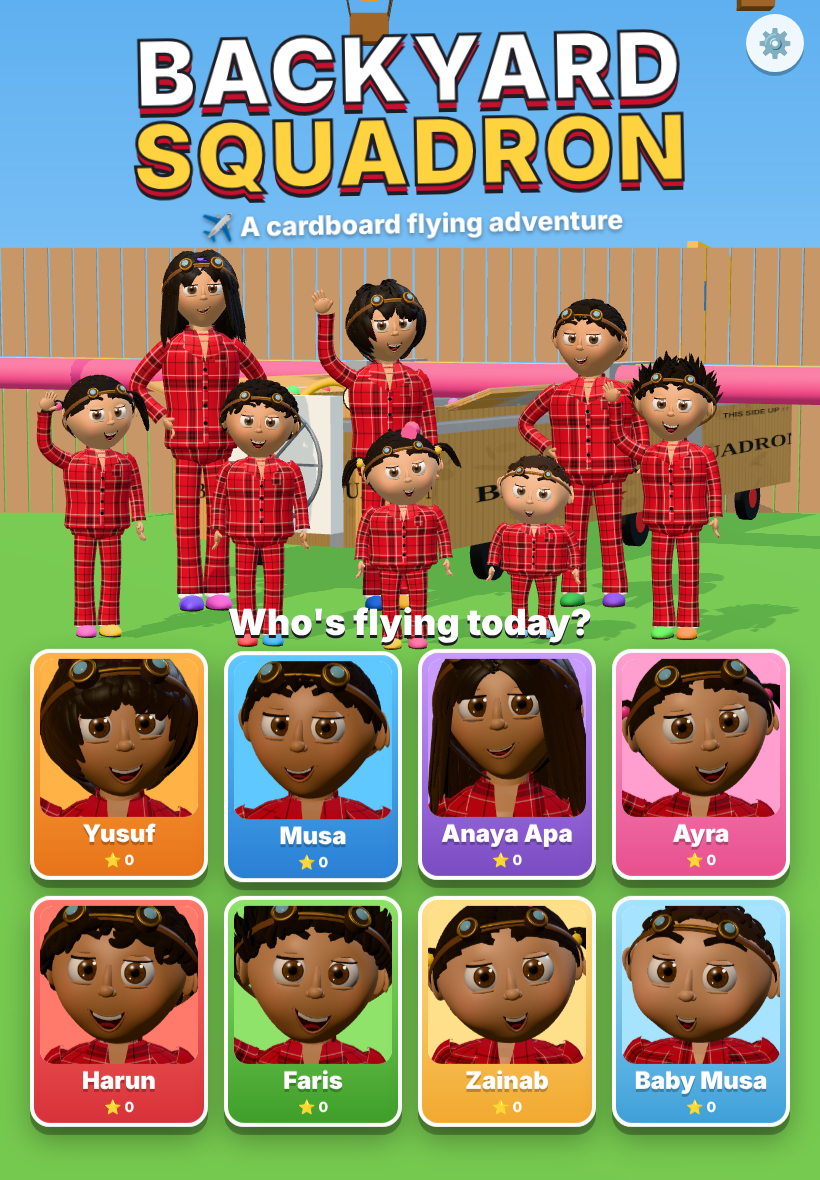
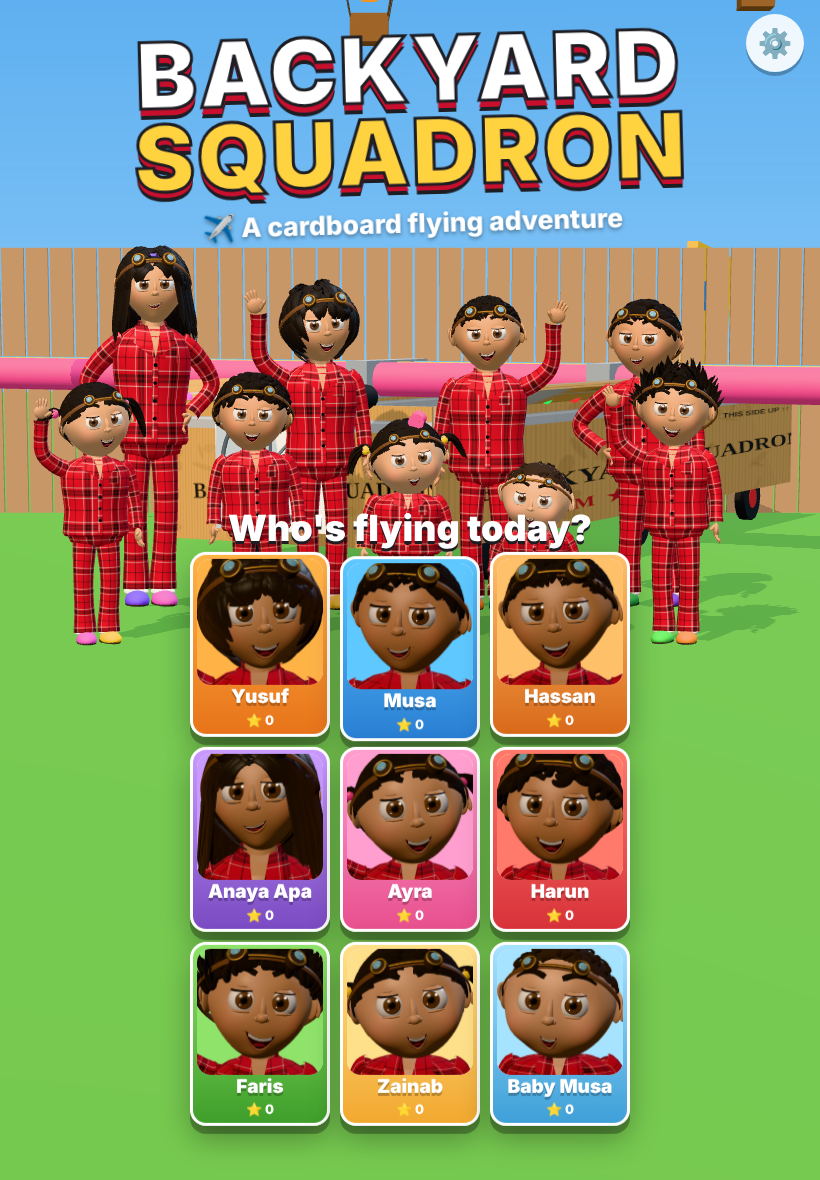
Add Hassan to the Greensboro house (playable)
- New playable kid Hassan: short buzz cut (new hair style), orange card,
  waving in the back row of the title squad.
- Plane and Faris's truck now seat nine (two back seats).
- Dialogue: Hassan joins the big kids and Greensboro family lines, plus his
  own conversations (one-on-one basketball with Yusuf, counting cows with
  Musa, asking Anaya Apa to run the snacks, a box joke, radioing Ruman).
- Story text, ending credits and README list him in the Greensboro house.
- Title screen: 3x3 grid of smaller pilot cards so the squad stays visible.

Claude-Session: https://claude.ai/code/session_019KNQmQmJPvoMSCmqbEjZ8d

diff --git a/src/dialogue.js b/src/dialogue.js
@@ -1,7 +1,7 @@
 // Who's who, and everything the squad says to each other.
 //
 // The Plano house:      Anaya Apa (13), Yusuf (10), Faris (5), Zainab (2)
-// The Greensboro house: Musa (10), Ayra (5), Harun (5) and Ruman (13, not playable: he talks on the walkie-talkie)
+// The Greensboro house: Musa (10), Hassan (10), Ayra (5), Harun (5) and Ruman (13, not playable: he talks on the walkie-talkie)
 // Also flying: Baby Musa (1)
 //
 // A script is a list of conversations; one is picked at random (without repeating recent ones).
@@ -11,14 +11,14 @@
 //   text:     may contain {pilot}; or an object keyed by speaker id, with a `default`.
 
 export const NAMES = {
-  yusuf: 'Yusuf', musa: 'Musa', anaya: 'Anaya Apa', ayra: 'Ayra', harun: 'Harun', faris: 'Faris', zainab: 'Zainab', babymusa: 'Baby Musa', ruman: 'Ruman',
+  yusuf: 'Yusuf', musa: 'Musa', anaya: 'Anaya Apa', ayra: 'Ayra', harun: 'Harun', faris: 'Faris', zainab: 'Zainab', babymusa: 'Baby Musa', hassan: 'Hassan', ruman: 'Ruman',
 };
-export const AGES = { yusuf: 10, musa: 10, anaya: 13, ayra: 5, harun: 5, faris: 5, zainab: 2, babymusa: 1, ruman: 13 };
-export const HOUSE = { anaya: 'plano', yusuf: 'plano', faris: 'plano', zainab: 'plano', musa: 'gso', ayra: 'gso', harun: 'gso', ruman: 'gso' };
+export const AGES = { yusuf: 10, musa: 10, anaya: 13, ayra: 5, harun: 5, faris: 5, zainab: 2, babymusa: 1, hassan: 10, ruman: 13 };
+export const HOUSE = { anaya: 'plano', yusuf: 'plano', faris: 'plano', zainab: 'plano', musa: 'gso', hassan: 'gso', ayra: 'gso', harun: 'gso', ruman: 'gso' };
 const GROUPS = {
-  little: ['zainab', 'babymusa'], five: ['ayra', 'harun', 'faris'], big: ['yusuf', 'musa', 'anaya'],
-  plano: ['anaya', 'yusuf', 'faris', 'zainab'], gso: ['musa', 'ayra', 'harun'],
-  any: ['yusuf', 'musa', 'anaya', 'ayra', 'harun', 'faris', 'zainab', 'babymusa'],
+  little: ['zainab', 'babymusa'], five: ['ayra', 'harun', 'faris'], big: ['yusuf', 'musa', 'hassan', 'anaya'],
+  plano: ['anaya', 'yusuf', 'faris', 'zainab'], gso: ['musa', 'hassan', 'ayra', 'harun'],
+  any: ['yusuf', 'musa', 'hassan', 'anaya', 'ayra', 'harun', 'faris', 'zainab', 'babymusa'],
 };
 
 const shuffle = (a) => a.map(v => [Math.random(), v]).sort((x, y) => x[0] - y[0]).map(v => v[1]);
@@ -52,10 +52,10 @@ export const SCRIPTS = {
   // ======================================================== Test Flight (Plano)
   'intro.intro': [
     [["anaya|yusuf", "Okay, everybody listen! Seatbelts on. Nobody touches ANYTHING."], ["five", "Can I touch the window?"], ["anaya|musa", "There IS no window. It's a box."],
-      ["yusuf|musa", "Captain {pilot}, steer with the stick and fly through the glowing rings!"], ["little", Z("Wheee!", "Ba!")]],
+      ["yusuf|musa|hassan", "Captain {pilot}, steer with the stick and fly through the glowing rings!"], ["little", Z("Wheee!", "Ba!")]],
     [["yusuf|musa", "Squad, welcome aboard! Captain {pilot} is flying today!"], ["anaya", "I'm the oldest, so I'm in charge back here."], ["faris|harun", "Nuh-uh!"],
       ["anaya|yusuf", "Uh-huh. Rings first, {pilot}. Fly through all of them."], ["little", Z("Go! Go!", "Ba!")]],
-    [["ruman", "Ruman here, at the Greensboro house. Squadron, do you copy?"], ["musa|ayra|harun", "We copy, Ruman! We're doing a test flight in Plano first!"],
+    [["ruman", "Ruman here, at the Greensboro house. Squadron, do you copy?"], ["musa|hassan|ayra|harun", "We copy, Ruman! We're doing a test flight in Plano first!"],
       ["ruman", "Copy that. Don't crash before you get here."], ["anaya|yusuf", "Nobody is crashing. I'm supervising."]],
     [["faris|ayra|harun", "Is this a real airplane?"], ["yusuf|musa", "It's a REAL cardboard airplane."], ["anaya|musa", "Which is not the same thing. Seatbelts."], ["little", Z("Seat-belt!", "Ba-ba!")]],
   ],
@@ -84,17 +84,17 @@ export const SCRIPTS = {
   'intro.introTruck': [
     [["anaya|yusuf", "FARIS. Where did the PLANE go?!"], ["yusuf|musa", "He turned it into a TRUCK! A flying truck!"], ["five", "It's SO SHINY!"],
       ["little", Z("Twuck! Twuck!", "Vroom!")], ["anaya|yusuf", "Fine. Everybody in the back. Hold on to the sides."]],
-    [["ruman", "Ruman here. Uh... is that a flying TRUCK?"], ["musa|ayra|harun", "Faris is driving!"], ["ruman", "Of course he is."], ["anaya|yusuf", "Everybody stay sitting down in the truck bed!"]],
+    [["ruman", "Ruman here. Uh... is that a flying TRUCK?"], ["musa|hassan|ayra|harun", "Faris is driving!"], ["ruman", "Of course he is."], ["anaya|yusuf", "Everybody stay sitting down in the truck bed!"]],
     [["yusuf|musa", "Captain Faris, your truck is ready! Fly through the rings!"], ["ayra|harun", "Why is it all pointy?"], ["anaya|yusuf", "Because Faris drew it. With a ruler."], ["zainab|babymusa", Z("Pointy!", "Ba!")]],
   ],
   'trip.introTruck': [
-    [["musa|ayra|harun", "We're flying to Greensboro in a TRUCK!"], ["anaya|yusuf", "In the BACK of a truck. With the wind in our hair."], ["five", "BEST. DAY. EVER."], ["little", Z("Vroom vroom!", "Vroom!")]],
+    [["musa|hassan|ayra|harun", "We're flying to Greensboro in a TRUCK!"], ["anaya|yusuf", "In the BACK of a truck. With the wind in our hair."], ["five", "BEST. DAY. EVER."], ["little", Z("Vroom vroom!", "Vroom!")]],
     [["ruman", "Ruman here. Faris, you're driving all the way to Greensboro?"], ["anaya|yusuf", "He says he's a very good driver."], ["ruman", "He's five."], ["anaya|musa", "I KNOW."]],
   ],
 
   // ======================================================== The Big Flight
   'trip.intro': [
-    [["musa|ayra|harun", "Next stop: OUR house in Greensboro! Everybody ready?"], ["five", "Did anybody pack snacks?"], ["anaya|yusuf", "I packed snacks. Obviously. I pack everything."],
+    [["musa|hassan|ayra|harun", "Next stop: OUR house in Greensboro! Everybody ready?"], ["five", "Did anybody pack snacks?"], ["anaya|yusuf", "I packed snacks. Obviously. I pack everything."],
       ["little", Z("Snack!", "Nom nom!")], ["yusuf|musa", "Captain {pilot}, follow the rings and snap a photo at every landmark!"]],
     [["ruman", "Ruman to Squadron. The Greensboro house is ready for you. Over."], ["anaya|yusuf", "Copy, Ruman. We're leaving Plano now."],
       ["ruman", "Did Anaya pack too many snacks again?"], ["anaya", "There's no such thing as too many snacks."], ["little", Z("Snack!", "Ba!")]],
@@ -107,7 +107,7 @@ export const SCRIPTS = {
   'trip.dallas': [
     [["yusuf|anaya", "There's Dallas! Fly around the big glowing ball on Reunion Tower!"], ["little", Z("Big ball!", "Ba!")], ["anaya|musa", "Don't you DARE bump that ball, {pilot}."]],
     [["faris|ayra", "It looks like a giant lollipop!"], ["harun|faris", "I want to lick it."], ["anaya|yusuf", "Nobody is licking Dallas."]],
-    [["ayra|harun", "Is Dallas bigger than Greensboro?"], ["musa|harun", "Greensboro has better trees."], ["yusuf|anaya|faris", "Dallas has a giant glowing ball. Just saying."]],
+    [["ayra|harun", "Is Dallas bigger than Greensboro?"], ["musa|hassan|harun", "Greensboro has better trees."], ["yusuf|anaya|faris", "Dallas has a giant glowing ball. Just saying."]],
   ],
   'trip.state:Arkansas': [
     [["ayra|harun|faris", "Are we there yet?"], ["anaya|yusuf", "We just left Texas."]],
@@ -128,7 +128,7 @@ export const SCRIPTS = {
   ],
   'trip.state:Tennessee': [
     [["anaya|musa", "Tennessee! Halfway there. Everybody's still alive. Good job, team."]],
-    [["ruman", "Ruman here. You're in Tennessee? Look for the mountains soon."], ["musa|ayra|harun", "Okay, Ruman!"]],
+    [["ruman", "Ruman here. You're in Tennessee? Look for the mountains soon."], ["musa|hassan|ayra|harun", "Okay, Ruman!"]],
   ],
   'trip.fall': [
     [["ayra|harun", "The trees turned orange and red and yellow!"], ["musa|yusuf", "It's fall! The leaves change color here."], ["zainab|babymusa", { zainab: "Leafs! Pretty!", babymusa: "Ooooh!" }]],
@@ -150,7 +150,7 @@ export const SCRIPTS = {
     [["ayra|harun", "It looks like a giant snail shell!"], ["little", Z("Snail!", "Ba!")]],
   ],
   'trip.state:North Carolina': [
-    [["musa|ayra|harun", "NORTH CAROLINA! We're almost home!"], ["little", Z("Yay!", "Yaaa!")]],
+    [["musa|hassan|ayra|harun", "NORTH CAROLINA! We're almost home!"], ["little", Z("Yay!", "Yaaa!")]],
     [["ruman", "Ruman here. Welcome to North Carolina, Squadron!"], ["ayra|harun", "RUMAN! We're in our STATE!"], ["ruman", "I know. I can practically hear you from here."]],
   ],
   'trip.viaduct': [
@@ -158,25 +158,25 @@ export const SCRIPTS = {
     [["faris", "If I lived on that road I'd ride my bike on it every day."], ["anaya|yusuf", "You can't even ride your bike down our driveway, Faris."], ["faris", "...I'm working on it."]],
   ],
   'trip.pilot': [
-    [["musa|ayra", "Pilot Mountain! You can see it from Greensboro on clear days."], ["faris|harun", "Hey, WE'RE pilots!"], ["anaya|musa", "Only {pilot} is the pilot. You're a passenger."]],
+    [["musa|hassan|ayra", "Pilot Mountain! You can see it from Greensboro on clear days."], ["faris|harun", "Hey, WE'RE pilots!"], ["anaya|musa", "Only {pilot} is the pilot. You're a passenger."]],
     [["harun|ayra", "It looks like a giant cupcake!"], ["faris|harun", "With broccoli sprinkles!"], ["little", Z("Cupcake!", "Nom!")]],
   ],
   'trip.greensboro': [
-    [["musa|ayra|harun", "GREENSBORO! Welcome to our town, everybody!"], ["anaya|yusuf", "Look at that sunset. Okay, I'll admit it. This is pretty cool."], ["babymusa|zainab", { babymusa: "Ba?", zainab: "Home?" }]],
+    [["musa|hassan|ayra|harun", "GREENSBORO! Welcome to our town, everybody!"], ["anaya|yusuf", "Look at that sunset. Okay, I'll admit it. This is pretty cool."], ["babymusa|zainab", { babymusa: "Ba?", zainab: "Home?" }]],
     [["ruman", "Ruman here. I can SEE you! You're tiny!"], ["ayra|harun", "RUMAN! We see the town!"], ["ruman", "Get ready, I'm going outside to wave."]],
-    [["yusuf|faris", "So THIS is Greensboro!"], ["musa|ayra", "Wait till you see our street. It's the best one."], ["anaya|yusuf", "We'll be the judge of that."]],
+    [["yusuf|faris", "So THIS is Greensboro!"], ["musa|hassan|ayra", "Wait till you see our street. It's the best one."], ["anaya|yusuf", "We'll be the judge of that."]],
   ],
   'trip.guilford': [
-    [["musa|ayra", "That's the Guilford Courthouse battlefield. It's really old!"], ["harun|ayra", "Older than Anaya Apa?"], ["anaya", "HEY."]],
-    [["musa|harun", "We go there on field trips. There are statues and cannons!"], ["faris|yusuf", "CANNONS?!"], ["anaya|musa", "Old ones. For looking. Not for using."]],
+    [["musa|hassan|ayra", "That's the Guilford Courthouse battlefield. It's really old!"], ["harun|ayra", "Older than Anaya Apa?"], ["anaya", "HEY."]],
+    [["musa|hassan|harun", "We go there on field trips. There are statues and cannons!"], ["faris|yusuf", "CANNONS?!"], ["anaya|musa", "Old ones. For looking. Not for using."]],
   ],
   'trip.science': [
-    [["musa|ayra", "The Science Center! It has an aquarium AND a zoo!"], ["ayra|faris", "Can we see the penguins? Pleeeease?"], ["little", Z("Fishies!", "Fiss!")]],
+    [["musa|hassan|ayra", "The Science Center! It has an aquarium AND a zoo!"], ["ayra|faris", "Can we see the penguins? Pleeeease?"], ["little", Z("Fishies!", "Fiss!")]],
     [["harun|ayra", "Ruman took us there and a sea turtle looked right at me!"], ["faris|yusuf", "No way!"], ["harun|ayra", "Way!"]],
   ],
   'trip.coliseum': [
     [["yusuf|musa", "The Coliseum is HUGE!"], ["faris|harun", "I bet I could throw a ball over it."], ["anaya|yusuf", "You can't throw a ball over the couch."]],
-    [["musa|harun", "I saw a basketball game there!"], ["yusuf|faris", "Who won?"], ["musa|ayra", "I don't remember. I just remember the nachos."]],
+    [["musa|hassan|harun", "I saw a basketball game there!"], ["yusuf|faris", "Who won?"], ["musa|hassan|ayra", "I don't remember. I just remember the nachos."]],
   ],
   'trip.downtown': [
     [["musa|yusuf", "Downtown! That's Elm Street and the Carolina Theatre sign!"], ["ayra|harun", "Can we go to the movies?"], ["anaya|musa", "In our PAJAMAS? ...Actually, yes. Later."]],
@@ -195,7 +195,7 @@ export const SCRIPTS = {
     [["ruman", "Ruman here. You're passing A&T? You're almost here!"], ["ayra|harun", "Ruman, get outside and wave!"], ["ruman", "Already outside. Look for the guy waving."]],
   ],
   'trip.home': [
-    [["musa|ayra|harun", "There's OUR street! The blue house!"], ["ruman", "I see you! I'm in the front yard!"], ["anaya|yusuf", "Gentle landing, {pilot}. GENTLE."]],
+    [["musa|hassan|ayra|harun", "There's OUR street! The blue house!"], ["ruman", "I see you! I'm in the front yard!"], ["anaya|yusuf", "Gentle landing, {pilot}. GENTLE."]],
     [["ayra|harun", "I can see Ruman waving!"], ["yusuf|faris", "Hi, Ruman!"], ["little", Z("Hi! Hi!", "Hi!")], ["anaya|musa", "Wave AFTER we land."]],
   ],
   'trip.land': [
@@ -306,6 +306,14 @@ export const SCRIPTS = {
 
   // random chatter while flying
   banter: [
+    [["hassan", "Yusuf, when we land, basketball. One on one."], ["yusuf", "You're ON."], ["musa|anaya", "I'm reffing."], ["five", "Can we play too?!"]],
+    [["hassan", "Musa, I bet I can count more cows than you."], ["musa", "You're on. One... two..."], ["hassan", "Seventeen!"], ["musa", "That's not fair, you're on the cow side!"]],
+    [["hassan", "Anaya Apa, can I be in charge of the snacks?"], ["anaya", "Absolutely not."], ["hassan", "Worth a try."]],
+    [["harun|ayra", "Hassan, tell the joke about the cardboard box!"], ["hassan", "Why did the box go to the doctor? It felt a little... flat."], ["five", "HAHAHA!"], ["anaya|yusuf", "That was terrible. I love it."]],
+    [["hassan", "When we get home, I'm showing everybody my new basketball shoes."], ["faris|harun", "Are they fast?"], ["hassan", "SUPER fast. Faster than this plane."], ["yusuf|musa", "Nothing is faster than this plane."]],
+    [["hassan", "Ruman, are you there? Over."], ["ruman", "I'm here, Hassan. Over."], ["hassan", "Just checking. Over."], ["ruman", "...Okay. Over."]],
+    [["zainab|babymusa", Z("Hassan! Hassan!", "Ha-ha!")], ["hassan", "Hi, little buddy! High five!"], ["zainab|babymusa", Z("Fi!", "Ba!")]],
+    [["hassan", "I can see the Greensboro house from here!"], ["anaya|yusuf", "We're still in a different state, Hassan."], ["hassan", "...I can IMAGINE it."]],
     [["ayra|harun|faris", "Are we there yet?"], ["anaya|musa", "No."], ["ayra|harun|faris", "Are we there yet NOW?"], ["anaya|yusuf", "NO."]],
     [["harun|faris|ayra", "I need to go potty."], ["anaya|musa", "You JUST went! Hold it."], ["zainab|babymusa", { zainab: "Potty!", babymusa: "Ba!" }]],
     [["faris|harun", { faris: "Harun is touching me!", harun: "Faris is touching me!", default: "Somebody is touching me!" }], ["harun|faris|ayra", "I'm not touching you. I'm touching the AIR next to you."], ["anaya|yusuf", "Both of you, hands in your laps."]],
@@ -323,17 +331,17 @@ export const SCRIPTS = {
     [["faris", "Anaya Apa, Yusuf is making faces at me!"], ["yusuf", "I'm not! This is just my face!"], ["anaya", "Both of you, eyes forward."]],
     [["zainab", "Apa! Apa!"], ["anaya|yusuf", "What is it, Zainab?"], ["zainab", "...Hi!"], ["anaya|yusuf", "Hi, Zainab."]],
     [["yusuf|faris", "Anaya Apa, are you EVER not in charge?"], ["anaya", "No. I was born in charge."]],
-    [["faris|zainab", { faris: "Our house is the best house.", zainab: "Our house!", default: "Plano is the best!" }], ["musa|ayra|harun", "Our house has a basketball hoop!"], ["yusuf|faris", "...Okay, that IS pretty good."]],
+    [["faris|zainab", { faris: "Our house is the best house.", zainab: "Our house!", default: "Plano is the best!" }], ["musa|hassan|ayra|harun", "Our house has a basketball hoop!"], ["yusuf|faris", "...Okay, that IS pretty good."]],
     // Greensboro siblings
-    [["ayra", "Musa, are you going to show them our room?"], ["musa|harun", "Yeah! And the backyard! And the tree!"], ["harun|ayra", "And my rock collection!"], ["anaya|yusuf", "Can't wait. Truly."]],
-    [["harun", "I miss Ruman."], ["ayra|musa", "We'll see him soon!"], ["harun|ayra", "I want to tell him we flew in a BOX."]],
-    [["musa|ayra", "Harun, stop kicking my seat."], ["harun", "I'm not kicking. I'm doing airplane legs."]],
-    [["ayra|harun", "When we get home I want pancakes."], ["musa|harun", "It's going to be dinnertime."], ["ayra|faris", "Dinner pancakes!"]],
+    [["ayra", "Musa, are you going to show them our room?"], ["musa|hassan|harun", "Yeah! And the backyard! And the tree!"], ["harun|ayra", "And my rock collection!"], ["anaya|yusuf", "Can't wait. Truly."]],
+    [["harun", "I miss Ruman."], ["ayra|musa|hassan", "We'll see him soon!"], ["harun|ayra", "I want to tell him we flew in a BOX."]],
+    [["musa|hassan|ayra", "Harun, stop kicking my seat."], ["harun", "I'm not kicking. I'm doing airplane legs."]],
+    [["ayra|harun", "When we get home I want pancakes."], ["musa|hassan|harun", "It's going to be dinnertime."], ["ayra|faris", "Dinner pancakes!"]],
     // the walkie-talkie
     [["ruman", "Ruman here. How's the flight?"], ["anaya|yusuf", "Loud."], ["five", "AWESOME!"], ["ruman", "Sounds about right."]],
     [["ruman", "Ruman here. Anaya, are you bossing everyone again?"], ["anaya", "Somebody has to, Ruman."], ["ruman", "Fair enough."]],
     [["ruman", "Ruman here. Just checking: is everybody still wearing the pajamas?"], ["any", "OBVIOUSLY!"], ["little", Z("Jammies!", "Ba!")]],
-    [["ruman", "Ruman here. I made the beds for everyone. You owe me."], ["musa|ayra|harun", "Thanks, Ruman!"], ["anaya|yusuf", "We'll see if they're made correctly."]],
+    [["ruman", "Ruman here. I made the beds for everyone. You owe me."], ["musa|hassan|ayra|harun", "Thanks, Ruman!"], ["anaya|yusuf", "We'll see if they're made correctly."]],
     [["ayra|harun", "Ruman, are you there?"], ["ruman", "I'm here. I'm always here. It's a walkie-talkie."]],
     // the little ones
     [["zainab", "Birdie!"], ["babymusa|zainab", Z("Birdie!", "Bir!")], ["anaya|musa", "Yes, birds. We're flying with the birds."]],

diff --git a/src/characters.js b/src/characters.js
@@ -741,6 +741,7 @@ const HAIRLINE = {
   pigtails: [[0, 0.54], [0.5, 0.46], [0.9, 0.3], [1.25, 0.18], [1.45, 0.08], [1.75, -0.06], [2.3, -0.36], [Math.PI, -0.5]],
   spiky: [[0, 0.55], [0.5, 0.47], [0.9, 0.32], [1.25, 0.2], [1.45, 0.1], [1.75, -0.02], [2.3, -0.3], [Math.PI, -0.45]],
   curly: [[0, 0.53], [0.5, 0.45], [0.9, 0.29], [1.25, 0.17], [1.45, 0.07], [1.75, -0.06], [2.3, -0.36], [Math.PI, -0.5]],
+  buzz: [[0, 0.56], [0.5, 0.48], [0.9, 0.33], [1.25, 0.21], [1.45, 0.11], [1.75, -0.02], [2.3, -0.3], [Math.PI, -0.44]],
   baby: [[0, 0.68], [0.5, 0.62], [0.9, 0.48], [1.25, 0.36], [1.45, 0.28], [1.75, 0.18], [2.3, -0.05], [Math.PI, -0.15]],
 };
 function hairlineY(n, style) {
@@ -795,7 +796,7 @@ function buildHair(head, spec, sculpt, r, lo) {
     mesh(geo, hairMat, head);
   }
 
-  const counts = { straight: 380, neat: 500, long: 520, pigtails: 460, spiky: 320, curly: 560, baby: 90 };
+  const counts = { straight: 380, neat: 500, long: 520, pigtails: 460, spiky: 320, curly: 560, baby: 90, buzz: 700 };
   const geos = [];
   const N = Math.round((counts[style] || 400) * (lo ? 0.42 : 1));
   const crown = V(0.12, 0.75, -0.64).normalize();
@@ -857,6 +858,12 @@ function buildHair(head, spec, sculpt, r, lo) {
       flow = tangentize(V(r() - 0.5, r() - 0.5, r() - 0.5), n);
       L = lerp(0.04, 0.06, r()) * sc;
       lift0 = 0.012 + r() * 0.01; liftAmp = 0.012; width = lerp(0.013, 0.018, r()) * sc; flat = 0.7; curl = (r() < 0.5 ? -1 : 1) * 9;
+    } else if (style === 'buzz') {
+      // short, tidy buzz cut with a little lift at the front
+      flow = tangentize(V(0, 0.2, 1), n);
+      flow.applyAxisAngle(n, (r() - 0.5) * 0.6);
+      L = lerp(0.018, 0.03, r()) * sc;
+      lift0 = 0.004 + 0.008 * front; liftAmp = 0.002; width = lerp(0.012, 0.016, r()) * sc; flat = 0.45; taper = 0.6;
     } else if (style === 'baby') {
       flow = tangentize(V(r() - 0.5, 0.3, r() - 0.5), n);
       L = lerp(0.015, 0.03, r()) * sc;
@@ -942,7 +949,7 @@ function buildHair(head, spec, sculpt, r, lo) {
 
 function buildGoggles(head, spec, sculpt, lo) {
   const R = spec.R;
-  const lift = { straight: 1.2, long: 1.16, curly: 1.2, spiky: 1.24, baby: 1.06 }[spec.hair] || 1.11;
+  const lift = { straight: 1.2, long: 1.16, curly: 1.2, spiky: 1.24, baby: 1.06, buzz: 1.08 }[spec.hair] || 1.11;
   const tilt = -0.62;
   const pts = [];
   for (let i = 0; i < 64; i++) {
@@ -1034,7 +1041,13 @@ export const BABYMUSA = {
   expr: { mouthW: 0.036, mouthH: 0.024, smile: 0.2, asym: 0.0, lid: 0.25, lidTilt: 0.0, browL: 0.05, browR: 0.05 },
   headTilt: [0.08, -0.12, -0.1], pose: 'relaxed', slippers: [0x8fd3ff, 0x8fd3ff], card: ['#a6e3ff', '#3fa0d8'],
 };
-export const KIDS = [YUSUF, MUSA, ANAYA, AYRA, HARUN, FARIS, ZAINAB, BABYMUSA];
+export const HASSAN = {
+  id: 'hassan', name: 'Hassan', age: 10, seed: 117, R: 0.15, height: 1.01, girth: 1.02, skin: 0xc49069, blush: 0xde8468, hair: 'buzz',
+  face: { width: 1.01, cheeks: 0.07, jawTaper: 0.25, chin: 0.05 },
+  expr: { mouthW: 0.062, mouthH: 0.026, smile: 0.36, asym: 0.003, lid: 0.3, lidTilt: 0.03, browL: 0.07, browR: 0.05 },
+  headTilt: [0.03, -0.06, 0.05], arms: { R: 'relaxed', L: 'wave' }, slippers: [0xff7a1a, 0x2f8f5a], card: ['#ffc06a', '#d96a1a'],
+};
+export const KIDS = [YUSUF, MUSA, HASSAN, ANAYA, AYRA, HARUN, FARIS, ZAINAB, BABYMUSA];
 /** Ruman (13) lives in the Greensboro house. Not playable: he radios in and waits in the front yard. */
 export const RUMAN = {
   id: 'ruman', name: 'Ruman', age: 13, seed: 105, R: 0.142, height: 1.12, girth: 0.98, scale: 1.1, skin: 0xc28d68, blush: 0xdc8068, hair: 'straight',

diff --git a/src/main.js b/src/main.js
@@ -81,7 +81,7 @@ class App {
   // ------------------------------------------------------------ boot
   async boot() {
     this.titleBoys = {};
-    const msgs = ['Building a BIG cardboard plane…', 'Ironing 8 pairs of pajamas…', 'Finding everybody\'s slippers…', 'Packing snacks…', 'Telling Anaya Apa she\'s in charge…', 'Warming up the juice boxes…', 'Finding Baby Musa\'s binky…', 'Almost ready…'];
+    const msgs = ['Building a BIG cardboard plane…', 'Ironing 8 pairs of pajamas…', 'Finding everybody\'s slippers…', 'Packing snacks…', 'Telling Anaya Apa she\'s in charge…', 'Finding Hassan\'s other slipper…', 'Warming up the juice boxes…', 'Finding Baby Musa\'s binky…', 'Almost ready…'];
     // full-detail models are only used for the portrait snapshots; the title screen uses lighter ones
     this.portraitRig();
     for (let i = 0; i < KIDS.length; i++) {
@@ -188,7 +188,7 @@ class App {
     this.titlePlane.group.traverse(o => { if (o.isMesh) o.castShadow = true; });
     s.add(this.titlePlane.group);
     // the whole squad: big kids in the back row, little ones in front
-    const spots = { anaya: [-1.05, -0.45, 0.25], yusuf: [-0.2, -0.4, 0.15], musa: [0.75, -0.45, -0.25], ayra: [-1.4, 0.55, 0.35],
+    const spots = { anaya: [-1.3, -0.45, 0.25], yusuf: [-0.5, -0.4, 0.15], hassan: [0.25, -0.45, 0.0], musa: [1.0, -0.45, -0.25], ayra: [-1.4, 0.55, 0.35],
       harun: [-0.72, 0.6, 0.15], zainab: [-0.12, 0.7, 0.05], babymusa: [0.4, 0.72, -0.1], faris: [1.0, 0.6, -0.3] };
     for (const [id, [x, z, ry]] of Object.entries(spots)) {
       const b = this.titleBoys[id];

diff --git a/src/style.css b/src/style.css
@@ -318,7 +318,7 @@ html, body { -webkit-text-size-adjust: 100%; text-size-adjust: 100%; }
 }
 
 /* ---------- the whole squad on the title screen ---------- */
-.pick { display: grid; grid-template-columns: repeat(4, 1fr); gap: clamp(8px, 2vw, 16px); width: min(760px, 96vw); margin: 10px 0 2vh; }
+.pick { display: grid; grid-template-columns: repeat(3, 1fr); gap: clamp(8px, 1.8vw, 14px); width: min(600px, 92vw); margin: 8px 0 2vh; }
 .pilot-card { width: auto; padding: 6px 6px 8px; border-width: 4px; border-radius: 20px; background: linear-gradient(var(--c1), var(--c2)) !important; animation-delay: calc(var(--i, 0) * -0.3s); }
 .pilot-card img { border-radius: 14px; }
 .pc-name { font-size: clamp(15px, 3.4vw, 24px); line-height: 1.1; margin-top: 4px; }
@@ -338,3 +338,8 @@ html, body { -webkit-text-size-adjust: 100%; text-size-adjust: 100%; }
 #hud.touch-mode .honk { bottom: calc(240px + var(--safe-b)); }
 #hud, #hud button, .honk { touch-action: none; }
 @media (max-width: 500px) { .honk { width: 64px; height: 64px; bottom: calc(190px + var(--safe-b)); left: calc(24px + var(--safe-l)); } .honk b { font-size: 22px; } .honk span { font-size: 10px; } }
+/* nine pilots: smaller cards so the squad stays visible */
+.pick { width: min(440px, 72vw); gap: clamp(6px, 1.4vw, 10px); }
+.pilot-card { padding: 4px 4px 6px; border-width: 3px; border-radius: 16px; }
+.pc-name { font-size: clamp(13px, 2.8vw, 19px); margin-top: 2px; }
+.pc-stars { font-size: clamp(10px, 1.9vw, 13px); }

diff --git a/src/ui.js b/src/ui.js
@@ -71,7 +71,7 @@ export class UI {
       </div>
       <div class="chapters">
         <div class="chapter"><div class="ch-title">✈ <b>Plano ➜ Greensboro</b></div>
-          <div class="ch-sub">Captain ${NAMES[who]} flies, and the whole squad rides along! The Greensboro kids (Musa, Ayra and Harun) came to visit the Plano house (Anaya Apa, Yusuf, Faris and Zainab). Now everybody flies back to Greensboro together, where Ruman is waiting. Anaya Apa is in charge of the back row.</div>
+          <div class="ch-sub">Captain ${NAMES[who]} flies, and the whole squad rides along! The Greensboro kids (Musa, Hassan, Ayra and Harun) came to visit the Plano house (Anaya Apa, Yusuf, Faris and Zainab). Now everybody flies back to Greensboro together, where Ruman is waiting. Anaya Apa is in charge of the back row.</div>
           ${MISSIONS.map((m, i) => card(m, i)).join('')}
         </div>
       </div>`;
@@ -257,7 +257,7 @@ export class UI {
       <div class="credits">
         <div><b>Starring</b></div>
         <div><b>The Plano house:</b> Anaya Apa · Yusuf · Faris · Zainab</div>
-        <div><b>The Greensboro house:</b> Musa · Ayra · Harun · Ruman</div>
+        <div><b>The Greensboro house:</b> Musa · Hassan · Ayra · Harun · Ruman</div>
         <div>and Baby Musa</div>
         <div class="cr-stats">⭐ ${totalStars(p)} / ${MISSIONS.length * 3} stars · 🧦 ${socksFound(p)} / ${MISSIONS.length} socks</div>
       </div>

diff --git a/src/truck.js b/src/truck.js
@@ -189,8 +189,8 @@ export function buildTruck() {
   const seatOrder = [];
   const seatMat = new THREE.MeshStandardMaterial({ color: 0x2a2b2e, roughness: 0.7 });
   const layout = [['pilot', 0.45, 1.35, 0.86], ['r1a', -0.42, -0.9, 1.05], ['r1b', 0.42, -0.9, 1.05], ['r2a', -0.42, -1.6, 1.05], ['r2b', 0.42, -1.6, 1.05],
-    ['r3a', -0.42, -2.3, 1.05], ['r3b', 0.42, -2.3, 1.05], ['back', 0, -2.85, 1.05]];
-  const cushionCols = [0x2a2b2e, 0xff5fa2, 0xffd23f, 0x5fd35a, 0xff9a3f, 0x8a5cff, 0x3fc5ff, 0xd8323a];
+    ['r3a', -0.42, -2.3, 1.05], ['r3b', 0.42, -2.3, 1.05], ['back', -0.42, -2.85, 1.05], ['back2', 0.42, -2.85, 1.05]];
+  const cushionCols = [0x2a2b2e, 0xff5fa2, 0xffd23f, 0x5fd35a, 0xff9a3f, 0x8a5cff, 0x3fc5ff, 0xd8323a, 0x2fc9a0];
   layout.forEach(([name, x, z, y], i) => {
     if (i === 0) add(new THREE.BoxGeometry(0.55, 0.1, 0.5).translate(x, y - 0.06, z - 0.1), seatMat);
     else add(new THREE.BoxGeometry(0.5, 0.14, 0.42).translate(x, y + 0.05, z - 0.1), new THREE.MeshStandardMaterial({ color: cushionCols[i], roughness: 0.8 }));

diff --git a/src/plane.js b/src/plane.js
@@ -116,8 +116,8 @@ export function buildPlane({ upgrades = {}, paint = 'cardboard' } = {}) {
   const lid = std(0xffffff, { roughness: 0.4 });
   const seats = {};
   const seatOrder = [];
-  const layout = [['pilot', 0, 1.95], ['r1a', -0.38, 0.95], ['r1b', 0.38, 0.95], ['r2a', -0.38, -0.05], ['r2b', 0.38, -0.05], ['r3a', -0.38, -1.05], ['r3b', 0.38, -1.05], ['back', 0, -1.95]];
-  const seatCols = [0x2f7fd0, 0xff5fa2, 0xffd23f, 0x5fd35a, 0xff9a3f, 0x8a5cff, 0x3fc5ff, 0xd8323a];
+  const layout = [['pilot', 0, 1.95], ['r1a', -0.38, 0.95], ['r1b', 0.38, 0.95], ['r2a', -0.38, -0.05], ['r2b', 0.38, -0.05], ['r3a', -0.38, -1.05], ['r3b', 0.38, -1.05], ['back', -0.38, -1.95], ['back2', 0.38, -1.95]];
+  const seatCols = [0x2f7fd0, 0xff5fa2, 0xffd23f, 0x5fd35a, 0xff9a3f, 0x8a5cff, 0x3fc5ff, 0xd8323a, 0x2fc9a0];
   layout.forEach(([name, x, z], i) => {
     add(body, new THREE.BoxGeometry(0.56, 0.32, 0.42), std(seatCols[i], { roughness: 0.5 }), x, 0.16, z - 0.12);
     add(body, new THREE.BoxGeometry(0.58, 0.05, 0.44), lid, x, 0.345, z - 0.12);

diff --git a/src/mission.js b/src/mission.js
@@ -13,10 +13,10 @@ const V = (x, y, z) => new THREE.Vector3(x, y, z);
 const UP = V(0, 1, 0);
 
 /** who sits where: Anaya Apa likes the back row where she can keep an eye on everyone */
-const SEAT_PREF = ['yusuf', 'musa', 'ayra', 'faris', 'harun', 'zainab', 'babymusa', 'anaya'];
+const SEAT_PREF = ['yusuf', 'musa', 'ayra', 'faris', 'harun', 'zainab', 'babymusa', 'hassan', 'anaya'];
 export function crewSeating(pilot) {
   const others = SEAT_PREF.filter(id => id !== pilot);
-  const seats = ['r1a', 'r1b', 'r2a', 'r2b', 'r3a', 'r3b', 'back'];
+  const seats = ['r1a', 'r1b', 'r2a', 'r2b', 'r3a', 'r3b', 'back2', 'back'];
   return others.map((id, i) => [id, seats[i]]);
 }
 

diff --git a/src/levels.js b/src/levels.js
@@ -8,7 +8,7 @@ export const MISSIONS = [
   // ============================================================ 1. Test Flight over Plano
   {
     id: 'intro', title: 'Test Flight', place: 'Plano, TX', time: 'morning', icon: '🛫',
-    blurb: 'Musa, Ayra and Harun are visiting the Plano house. Take the cardboard plane for a quick spin around the neighborhood!',
+    blurb: 'Musa, Hassan, Ayra and Harun are visiting the Plano house. Take the cardboard plane for a quick spin around the neighborhood!',
     world: { ground: 0x74b04e, size: 1400 },
     build(w) {
       w.circle(0, -40, 17);

diff --git a/README.md b/README.md
@@ -3,7 +3,7 @@
 A short 3D flying game for iPad starring the **Backyard Squadron**, all in matching red plaid pajamas, flying together in a giant cardboard-box plane:
 
 - **The Plano house:** Anaya Apa (the bossy big sister), Yusuf, Faris, Zainab
-- **The Greensboro house:** Musa, Ayra, Harun, and Ruman (not playable: he talks on the walkie-talkie and waits in the front yard)
+- **The Greensboro house:** Musa, Hassan, Ayra, Harun, and Ruman (not playable: he talks on the walkie-talkie and waits in the front yard)
 - **Also flying:** Baby Musa
 
 It runs in the browser, in **portrait (upright)**, and is built with [Three.js](https://threejs.org) and [Vite](https://vitejs.dev).
@@ -16,7 +16,7 @@ It runs in the browser, in **portrait (upright)**, and is built with [Three.js](
 
 1. Open the game on the iPad and hold it **upright**. It only plays in portrait.
 2. Tap **Share → Add to Home Screen**. It then opens full-screen like a real app.
-3. Pick who's flying today: any of the **8 kids**. The pilot sits up front and everyone else rides along (and talks the whole way). Each kid has their own save, stars and plane.
+3. Pick who's flying today: any of the **9 kids**. The pilot sits up front and everyone else rides along (and talks the whole way). Each kid has their own save, stars and plane.
 4. Tap **Start Engines!** Drag the stick on the left to steer and hold **BOOST** on the right.
 5. Want to steer by tilting? Go to ⚙ Settings → **Tilt (gyro)**. First lock the screen rotation (hold the iPad upright, swipe down from the top-right corner, tap 🔒), or the screen will flip when you tilt.
 
@@ -40,7 +40,7 @@ The game helps kids out: big rainbow rings, gentle aim-assist toward the next ta
  Stars buy plane upgrades in the **Garage**: umbrella wings for tighter turns, a leaf-blower engine for a bigger boost tank, and flamingo floats for landing on water. The **Landing helper** setting makes landings easier.
 
 ### Missions
-The whole squad flies in every mission: whoever you pick is the pilot, and the other seven ride along and chat. The kids talk the whole way: hundreds of lines and family-aware banter. Anaya Apa bosses her Plano siblings from the back row, the Greensboro kids can't wait to show off their town, the little kids tell jokes and ask "are we there yet?", the littlest ones, Zainab and Baby Musa, say cute little words, and Ruman checks in on the walkie-talkie from the Greensboro house.
+The whole squad flies in every mission: whoever you pick is the pilot, and the other eight ride along and chat. The kids talk the whole way: hundreds of lines and family-aware banter. Anaya Apa bosses her Plano siblings from the back row, the Greensboro kids can't wait to show off their town, the little kids tell jokes and ask "are we there yet?", the littlest ones, Zainab and Baby Musa, say cute little words, and Ruman checks in on the walkie-talkie from the Greensboro house.
 
 | # | Mission | What happens |
 |---|---|---|
